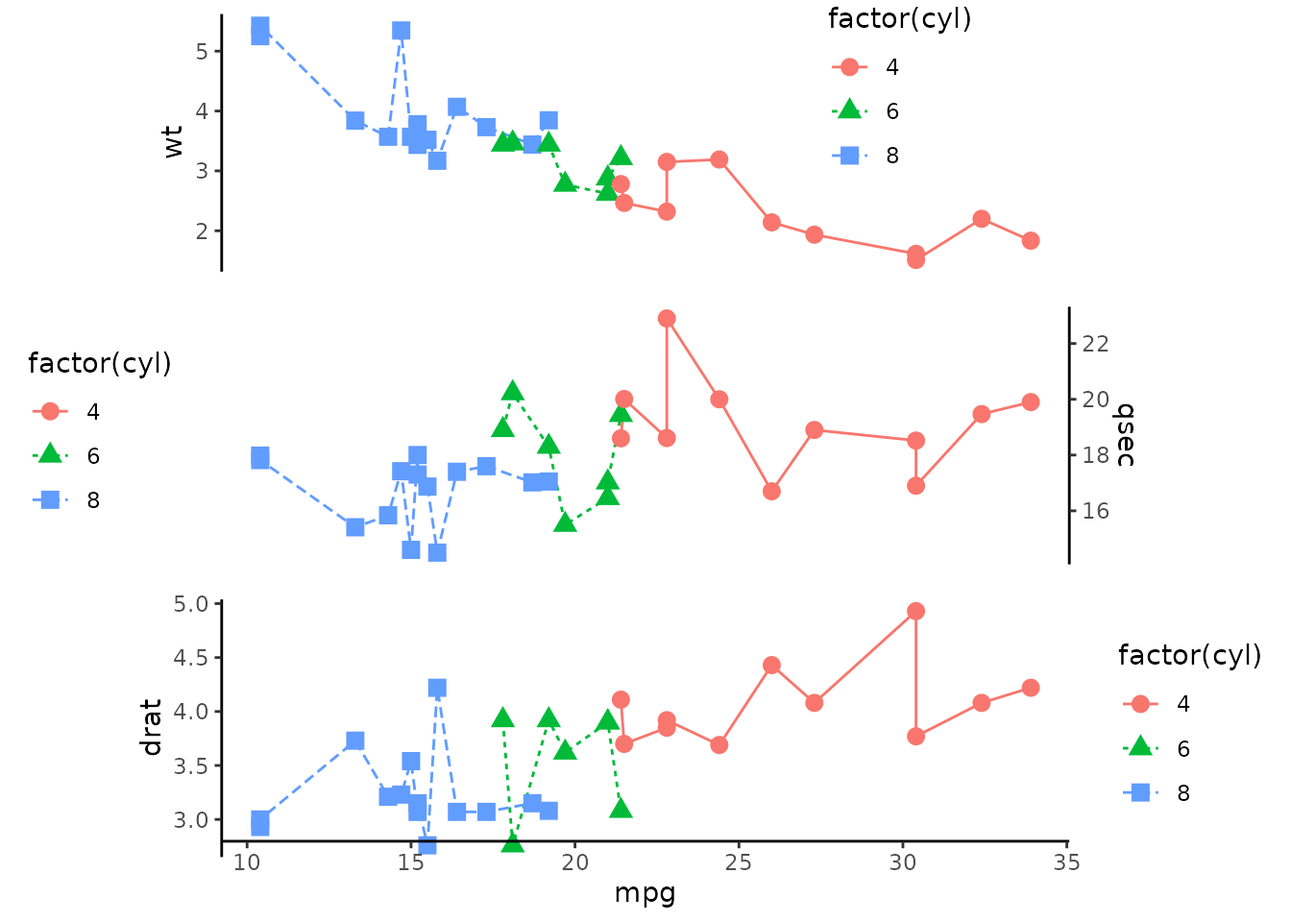
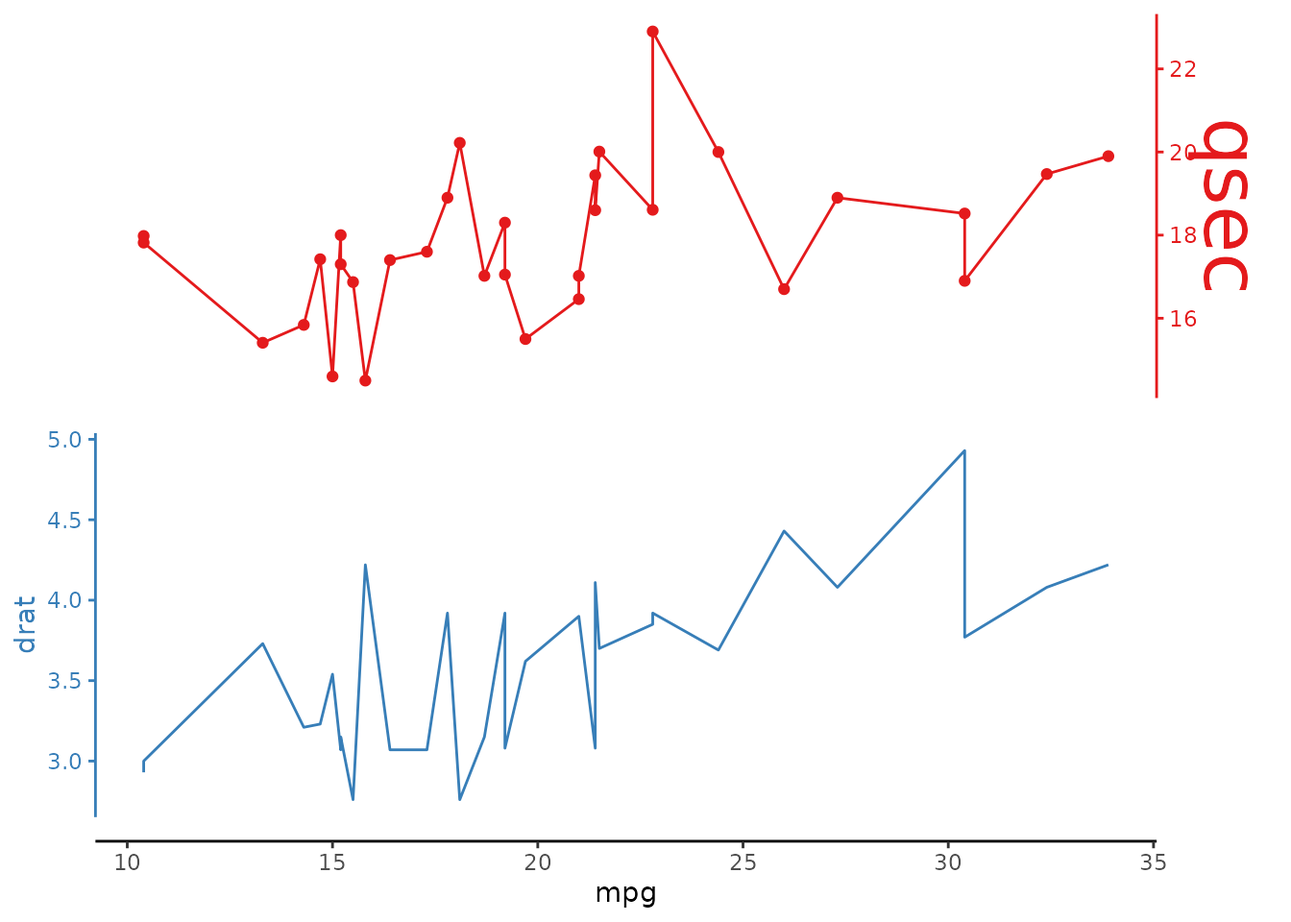
Deploying to gh-pages from @ KopfLab/ggstackplot@f16d5d4f6564ef14e25bf655b6eff627ebc04d66 🚀

diff --git a/articles/features.html b/articles/features.html
@@ -26,7 +26,7 @@
     
     <a class="navbar-brand me-2" href="../index.html">ggstackplot</a>
 
-    <small class="nav-text text-muted me-auto" data-bs-toggle="tooltip" data-bs-placement="bottom" title="Released version">0.2.6</small>
+    <small class="nav-text text-muted me-auto" data-bs-toggle="tooltip" data-bs-placement="bottom" title="Released version">0.2.7</small>
 
     
     <button class="navbar-toggler" type="button" data-bs-toggle="collapse" data-bs-target="#navbar" aria-controls="navbar" aria-expanded="false" aria-label="Toggle navigation">
@@ -126,7 +126,8 @@
 <h4 id="horizontal-stack">horizontal stack<a class="anchor" aria-label="anchor" href="#horizontal-stack"></a>
 </h4>
 <div class="sourceCode" id="cb6"><pre class="downlit sourceCode r">
-<code class="sourceCode R"><span><span class="co"># all examples shown in this document work the same way for a horizontal stack simplfy by switching out the x and y assignments</span></span>
+<code class="sourceCode R"><span><span class="co"># all examples shown in this document work the same way for a horizontal</span></span>
+<span><span class="co"># stack simplfy by switching out the x and y assignments</span></span>
 <span><span class="va">mtcars</span> <span class="op">|&gt;</span> </span>
 <span>  <span class="fu"><a href="../reference/ggstackplot.html">ggstackplot</a></span><span class="op">(</span></span>
 <span>    y <span class="op">=</span> <span class="va">mpg</span>, x <span class="op">=</span> <span class="fu"><a href="https://rdrr.io/r/base/c.html" class="external-link">c</a></span><span class="op">(</span><span class="va">wt</span>, <span class="va">qsec</span>, <span class="va">drat</span><span class="op">)</span></span>
@@ -161,14 +162,6 @@
 </h3>
 <div class="sourceCode" id="cb9"><pre class="downlit sourceCode r">
 <code class="sourceCode R"><span><span class="kw"><a href="https://rdrr.io/r/base/library.html" class="external-link">library</a></span><span class="op">(</span><span class="va"><a href="https://dplyr.tidyverse.org" class="external-link">dplyr</a></span><span class="op">)</span></span>
-<span><span class="co">#&gt; </span></span>
-<span><span class="co">#&gt; Attaching package: 'dplyr'</span></span>
-<span><span class="co">#&gt; The following objects are masked from 'package:stats':</span></span>
-<span><span class="co">#&gt; </span></span>
-<span><span class="co">#&gt;     filter, lag</span></span>
-<span><span class="co">#&gt; The following objects are masked from 'package:base':</span></span>
-<span><span class="co">#&gt; </span></span>
-<span><span class="co">#&gt;     intersect, setdiff, setequal, union</span></span>
 <span></span>
 <span><span class="co"># default (NAs are removed so lines are not interrupted)</span></span>
 <span><span class="va">mtcars</span> <span class="op">|&gt;</span> </span>
@@ -501,47 +494,119 @@ can modify it more from there on). A few examples below:</p>
 <span>      <span class="fu"><a href="https://ggplot2.tidyverse.org/reference/aes.html" class="external-link">aes</a></span><span class="op">(</span>color <span class="op">=</span> <span class="fu"><a href="https://rdrr.io/r/base/factor.html" class="external-link">factor</a></span><span class="op">(</span><span class="va">cyl</span><span class="op">)</span>, linetype <span class="op">=</span> <span class="fu"><a href="https://rdrr.io/r/base/factor.html" class="external-link">factor</a></span><span class="op">(</span><span class="va">cyl</span><span class="op">)</span>, shape <span class="op">=</span> <span class="fu"><a href="https://rdrr.io/r/base/factor.html" class="external-link">factor</a></span><span class="op">(</span><span class="va">cyl</span><span class="op">)</span><span class="op">)</span> <span class="op">+</span></span>
 <span>      <span class="fu"><a href="https://ggplot2.tidyverse.org/reference/geom_path.html" class="external-link">geom_line</a></span><span class="op">(</span><span class="op">)</span> <span class="op">+</span></span>
 <span>      <span class="fu"><a href="https://ggplot2.tidyverse.org/reference/geom_point.html" class="external-link">geom_point</a></span><span class="op">(</span>size <span class="op">=</span> <span class="fl">3</span><span class="op">)</span> <span class="op">+</span></span>
-<span>      <span class="fu"><a href="https://ggplot2.tidyverse.org/reference/ggtheme.html" class="external-link">theme_bw</a></span><span class="op">(</span><span class="op">)</span> <span class="op">+</span></span>
 <span>      <span class="fu"><a href="../reference/theme_stackplot.html">theme_stackplot</a></span><span class="op">(</span><span class="op">)</span> </span>
 <span>  <span class="op">)</span></span></code></pre></div>
 <p><img src="features_files/figure-html/unnamed-chunk-18-1.png" width="672"></p>
 </div>
 </div>
 <div class="section level2">
-<h2 id="advanced-features">Advanced features<a class="anchor" aria-label="anchor" href="#advanced-features"></a>
+<h2 id="the-add-argument">The <code>add</code> argument<a class="anchor" aria-label="anchor" href="#the-add-argument"></a>
 </h2>
+<p>For even more specific plot refinements, the <code>add</code>
+argument provides an easy way to add ggplot components to specific
+panels in the stack plot. A few examples below:</p>
+<div class="section level3">
+<h3 id="custom-geoms">custom geoms<a class="anchor" aria-label="anchor" href="#custom-geoms"></a>
+</h3>
 <div class="sourceCode" id="cb32"><pre class="downlit sourceCode r">
-<code class="sourceCode R"><span><span class="co"># TODO: add example of custom prepare_stackplot, then modify, then assemble_stackpllot</span></span></code></pre></div>
+<code class="sourceCode R"><span><span class="co"># similar to the example `custom geom data`, the `add` argument can also</span></span>
+<span><span class="co"># be used to add specific geoms only to specific panels</span></span>
+<span><span class="va">mtcars</span> <span class="op">|&gt;</span></span>
+<span>  <span class="fu"><a href="../reference/ggstackplot.html">ggstackplot</a></span><span class="op">(</span></span>
+<span>    x <span class="op">=</span> <span class="va">mpg</span>, y <span class="op">=</span> <span class="fu"><a href="https://rdrr.io/r/base/c.html" class="external-link">c</a></span><span class="op">(</span><span class="va">qsec</span>, <span class="va">drat</span><span class="op">)</span>,</span>
+<span>    color <span class="op">=</span> <span class="fu"><a href="https://rdrr.io/r/base/c.html" class="external-link">c</a></span><span class="op">(</span><span class="st">"#E41A1C"</span>, <span class="st">"#377EB8"</span><span class="op">)</span>,</span>
+<span>    template <span class="op">=</span> <span class="fu"><a href="https://ggplot2.tidyverse.org/reference/ggplot.html" class="external-link">ggplot</a></span><span class="op">(</span><span class="op">)</span> <span class="op">+</span> <span class="fu"><a href="../reference/theme_stackplot.html">theme_stackplot</a></span><span class="op">(</span><span class="op">)</span>,</span>
+<span>    add <span class="op">=</span> <span class="fu"><a href="https://rdrr.io/r/base/list.html" class="external-link">list</a></span><span class="op">(</span></span>
+<span>      <span class="co"># panel by name</span></span>
+<span>      qsec <span class="op">=</span> <span class="fu"><a href="https://ggplot2.tidyverse.org/reference/geom_path.html" class="external-link">geom_line</a></span><span class="op">(</span><span class="op">)</span>, </span>
+<span>      drat <span class="op">=</span> <span class="fu"><a href="https://ggplot2.tidyverse.org/reference/geom_tile.html" class="external-link">geom_rect</a></span><span class="op">(</span></span>
+<span>        xmin <span class="op">=</span> <span class="fl">20</span>, xmax <span class="op">=</span> <span class="fl">25</span>, ymin <span class="op">=</span> <span class="fl">3.2</span>, ymax <span class="op">=</span> <span class="fl">4.2</span>, fill <span class="op">=</span> <span class="st">"gray90"</span><span class="op">)</span> <span class="op">+</span> </span>
+<span>        <span class="fu"><a href="https://ggplot2.tidyverse.org/reference/geom_point.html" class="external-link">geom_point</a></span><span class="op">(</span><span class="op">)</span></span>
+<span>    <span class="op">)</span></span>
+<span>  <span class="op">)</span></span></code></pre></div>
+<p><img src="features_files/figure-html/unnamed-chunk-19-1.png" width="672"></p>
 </div>
-<div class="section level2">
-<h2 id="legend-mods-example">legend mods example<a class="anchor" aria-label="anchor" href="#legend-mods-example"></a>
-</h2>
+<div class="section level3">
+<h3 id="custom-themes">custom themes<a class="anchor" aria-label="anchor" href="#custom-themes"></a>
+</h3>
 <div class="sourceCode" id="cb33"><pre class="downlit sourceCode r">
-<code class="sourceCode R"><span><span class="kw"><a href="https://rdrr.io/r/base/library.html" class="external-link">library</a></span><span class="op">(</span><span class="va"><a href="https://ggplot2.tidyverse.org" class="external-link">ggplot2</a></span><span class="op">)</span></span>
-<span><span class="kw"><a href="https://rdrr.io/r/base/library.html" class="external-link">library</a></span><span class="op">(</span><span class="va">ggstackplot</span><span class="op">)</span></span>
-<span></span>
-<span><span class="co"># prep plot</span></span>
-<span><span class="va">stackplot</span> <span class="op">&lt;-</span> </span>
-<span>  <span class="va">mtcars</span> <span class="op">|&gt;</span></span>
-<span>  <span class="fu"><a href="../reference/ggstackplot.html">prepare_stackplot</a></span><span class="op">(</span></span>
-<span>    x <span class="op">=</span> <span class="va">mpg</span>,  y <span class="op">=</span> <span class="fu"><a href="https://rdrr.io/r/base/c.html" class="external-link">c</a></span><span class="op">(</span><span class="va">wt</span>, <span class="va">qsec</span>, <span class="va">drat</span><span class="op">)</span>,</span>
-<span>    template <span class="op">=</span> </span>
-<span>      <span class="fu"><a href="https://ggplot2.tidyverse.org/reference/ggplot.html" class="external-link">ggplot</a></span><span class="op">(</span><span class="op">)</span> <span class="op">+</span></span>
-<span>      <span class="fu"><a href="https://ggplot2.tidyverse.org/reference/aes.html" class="external-link">aes</a></span><span class="op">(</span>color <span class="op">=</span> <span class="fu"><a href="https://rdrr.io/r/base/factor.html" class="external-link">factor</a></span><span class="op">(</span><span class="va">cyl</span><span class="op">)</span>, linetype <span class="op">=</span> <span class="fu"><a href="https://rdrr.io/r/base/factor.html" class="external-link">factor</a></span><span class="op">(</span><span class="va">cyl</span><span class="op">)</span>, shape <span class="op">=</span> <span class="fu"><a href="https://rdrr.io/r/base/factor.html" class="external-link">factor</a></span><span class="op">(</span><span class="va">cyl</span><span class="op">)</span><span class="op">)</span> <span class="op">+</span></span>
-<span>      <span class="fu"><a href="https://ggplot2.tidyverse.org/reference/geom_path.html" class="external-link">geom_line</a></span><span class="op">(</span><span class="op">)</span> <span class="op">+</span></span>
-<span>      <span class="fu"><a href="https://ggplot2.tidyverse.org/reference/geom_point.html" class="external-link">geom_point</a></span><span class="op">(</span>size <span class="op">=</span> <span class="fl">3</span><span class="op">)</span> <span class="op">+</span></span>
-<span>      <span class="fu"><a href="https://ggplot2.tidyverse.org/reference/ggtheme.html" class="external-link">theme_bw</a></span><span class="op">(</span><span class="op">)</span> <span class="op">+</span></span>
-<span>      <span class="fu"><a href="../reference/theme_stackplot.html">theme_stackplot</a></span><span class="op">(</span><span class="op">)</span> </span>
-<span>  <span class="op">)</span></span>
-<span></span>
-<span><span class="co"># modify themes (or plots) manually</span></span>
-<span><span class="va">stackplot</span><span class="op">$</span><span class="va">theme</span><span class="op">[[</span><span class="fl">1</span><span class="op">]</span><span class="op">]</span> <span class="op">&lt;-</span> <span class="va">stackplot</span><span class="op">$</span><span class="va">theme</span><span class="op">[[</span><span class="fl">1</span><span class="op">]</span><span class="op">]</span> <span class="op">+</span> <span class="fu"><a href="https://ggplot2.tidyverse.org/reference/theme.html" class="external-link">theme</a></span><span class="op">(</span>legend.position <span class="op">=</span> <span class="fu"><a href="https://rdrr.io/r/base/c.html" class="external-link">c</a></span><span class="op">(</span><span class="fl">0.8</span>, <span class="fl">0.7</span><span class="op">)</span><span class="op">)</span></span>
-<span><span class="va">stackplot</span><span class="op">$</span><span class="va">theme</span><span class="op">[[</span><span class="fl">2</span><span class="op">]</span><span class="op">]</span> <span class="op">&lt;-</span> <span class="va">stackplot</span><span class="op">$</span><span class="va">theme</span><span class="op">[[</span><span class="fl">2</span><span class="op">]</span><span class="op">]</span> <span class="op">+</span> <span class="fu"><a href="https://ggplot2.tidyverse.org/reference/theme.html" class="external-link">theme</a></span><span class="op">(</span>legend.position <span class="op">=</span> <span class="st">"left"</span><span class="op">)</span></span>
-<span></span>
-<span><span class="co"># assemble</span></span>
-<span><span class="va">stackplot</span> <span class="op">|&gt;</span></span>
-<span>  <span class="fu"><a href="../reference/ggstackplot.html">assemble_stackplot</a></span><span class="op">(</span><span class="op">)</span></span></code></pre></div>
+<code class="sourceCode R"><span><span class="co"># likewise custom themes can be added to individual panels with `add`</span></span>
+<span><span class="va">mtcars</span> <span class="op">|&gt;</span></span>
+<span>  <span class="fu"><a href="../reference/ggstackplot.html">ggstackplot</a></span><span class="op">(</span></span>
+<span>    x <span class="op">=</span> <span class="va">mpg</span>, y <span class="op">=</span> <span class="fu"><a href="https://rdrr.io/r/base/c.html" class="external-link">c</a></span><span class="op">(</span><span class="va">qsec</span>, <span class="va">drat</span><span class="op">)</span>,</span>
+<span>    color <span class="op">=</span> <span class="fu"><a href="https://rdrr.io/r/base/c.html" class="external-link">c</a></span><span class="op">(</span><span class="st">"#E41A1C"</span>, <span class="st">"#377EB8"</span><span class="op">)</span>,</span>
+<span>    template <span class="op">=</span> <span class="fu"><a href="https://ggplot2.tidyverse.org/reference/ggplot.html" class="external-link">ggplot</a></span><span class="op">(</span><span class="op">)</span> <span class="op">+</span> <span class="fu"><a href="https://ggplot2.tidyverse.org/reference/geom_path.html" class="external-link">geom_line</a></span><span class="op">(</span><span class="op">)</span> <span class="op">+</span> <span class="fu"><a href="../reference/theme_stackplot.html">theme_stackplot</a></span><span class="op">(</span><span class="op">)</span>,</span>
+<span>    add <span class="op">=</span> <span class="fu"><a href="https://rdrr.io/r/base/list.html" class="external-link">list</a></span><span class="op">(</span></span>
+<span>      <span class="co"># panel by index</span></span>
+<span>      <span class="fu"><a href="https://ggplot2.tidyverse.org/reference/geom_point.html" class="external-link">geom_point</a></span><span class="op">(</span><span class="op">)</span> <span class="op">+</span> <span class="fu"><a href="https://ggplot2.tidyverse.org/reference/theme.html" class="external-link">theme</a></span><span class="op">(</span>axis.title.y <span class="op">=</span> <span class="fu"><a href="https://ggplot2.tidyverse.org/reference/element.html" class="external-link">element_text</a></span><span class="op">(</span>size <span class="op">=</span> <span class="fl">30</span><span class="op">)</span><span class="op">)</span></span>
+<span>    <span class="op">)</span></span>
+<span>  <span class="op">)</span></span></code></pre></div>
 <p><img src="features_files/figure-html/unnamed-chunk-20-1.png" width="672"></p>
+</div>
+<div class="section level3">
+<h3 id="custom-scales">custom scales<a class="anchor" aria-label="anchor" href="#custom-scales"></a>
+</h3>
+<div class="sourceCode" id="cb34"><pre class="downlit sourceCode r">
+<code class="sourceCode R"><span><span class="co"># particularly useful is also the possibility to modify individual scales</span></span>
+<span><span class="va">mtcars</span> <span class="op">|&gt;</span></span>
+<span>  <span class="fu"><a href="../reference/ggstackplot.html">ggstackplot</a></span><span class="op">(</span></span>
+<span>    x <span class="op">=</span> <span class="va">mpg</span>, y <span class="op">=</span> <span class="fu"><a href="https://rdrr.io/r/base/c.html" class="external-link">c</a></span><span class="op">(</span><span class="va">qsec</span>, <span class="va">drat</span><span class="op">)</span>,</span>
+<span>    color <span class="op">=</span> <span class="fu"><a href="https://rdrr.io/r/base/c.html" class="external-link">c</a></span><span class="op">(</span><span class="st">"#E41A1C"</span>, <span class="st">"#377EB8"</span><span class="op">)</span>,</span>
+<span>    template <span class="op">=</span> <span class="fu"><a href="https://ggplot2.tidyverse.org/reference/ggplot.html" class="external-link">ggplot</a></span><span class="op">(</span><span class="op">)</span> <span class="op">+</span> <span class="fu"><a href="https://ggplot2.tidyverse.org/reference/geom_path.html" class="external-link">geom_line</a></span><span class="op">(</span><span class="op">)</span> <span class="op">+</span> <span class="fu"><a href="../reference/theme_stackplot.html">theme_stackplot</a></span><span class="op">(</span><span class="op">)</span>,</span>
+<span>    add <span class="op">=</span> <span class="fu"><a href="https://rdrr.io/r/base/list.html" class="external-link">list</a></span><span class="op">(</span></span>
+<span>      <span class="co"># panel by index</span></span>
+<span>      <span class="cn">NULL</span>,</span>
+<span>      <span class="fu"><a href="https://ggplot2.tidyverse.org/reference/scale_continuous.html" class="external-link">scale_y_continuous</a></span><span class="op">(</span><span class="st">"$$ drat"</span>, labels <span class="op">=</span> <span class="fu">scales</span><span class="fu">::</span><span class="fu"><a href="https://scales.r-lib.org/reference/label_dollar.html" class="external-link">label_dollar</a></span><span class="op">(</span><span class="op">)</span><span class="op">)</span> <span class="op">+</span> </span>
+<span>        <span class="fu"><a href="https://ggplot2.tidyverse.org/reference/theme.html" class="external-link">theme</a></span><span class="op">(</span>axis.title.y <span class="op">=</span> <span class="fu"><a href="https://ggplot2.tidyverse.org/reference/element.html" class="external-link">element_text</a></span><span class="op">(</span>size <span class="op">=</span> <span class="fl">30</span><span class="op">)</span><span class="op">)</span> </span>
+<span>    <span class="op">)</span></span>
+<span>  <span class="op">)</span></span></code></pre></div>
+<p><img src="features_files/figure-html/unnamed-chunk-21-1.png" width="672"></p>
+</div>
+<div class="section level3">
+<h3 id="legend-positioning">legend positioning<a class="anchor" aria-label="anchor" href="#legend-positioning"></a>
+</h3>
+<div class="sourceCode" id="cb35"><pre class="downlit sourceCode r">
+<code class="sourceCode R"><span><span class="co"># another example of theme modification is the use of the `add` argument</span></span>
+<span><span class="co"># to specify legend positioning</span></span>
+<span><span class="va">mtcars</span> <span class="op">|&gt;</span></span>
+<span>  <span class="fu"><a href="../reference/ggstackplot.html">ggstackplot</a></span><span class="op">(</span></span>
+<span>    x <span class="op">=</span> <span class="va">mpg</span>,  y <span class="op">=</span> <span class="fu"><a href="https://rdrr.io/r/base/c.html" class="external-link">c</a></span><span class="op">(</span><span class="va">wt</span>, <span class="va">qsec</span>, <span class="va">drat</span><span class="op">)</span>,</span>
+<span>    color <span class="op">=</span> <span class="fu"><a href="https://rdrr.io/r/base/c.html" class="external-link">c</a></span><span class="op">(</span><span class="st">"#E41A1C"</span>, <span class="st">"#377EB8"</span>, <span class="st">"#4DAF4A"</span><span class="op">)</span>,</span>
+<span>    template <span class="op">=</span> </span>
+<span>      <span class="fu"><a href="https://ggplot2.tidyverse.org/reference/ggplot.html" class="external-link">ggplot</a></span><span class="op">(</span><span class="op">)</span> <span class="op">+</span> <span class="fu"><a href="https://ggplot2.tidyverse.org/reference/aes.html" class="external-link">aes</a></span><span class="op">(</span>linetype <span class="op">=</span> <span class="fu"><a href="https://rdrr.io/r/base/factor.html" class="external-link">factor</a></span><span class="op">(</span><span class="va">vs</span><span class="op">)</span><span class="op">)</span> <span class="op">+</span></span>
+<span>      <span class="fu"><a href="https://ggplot2.tidyverse.org/reference/geom_path.html" class="external-link">geom_line</a></span><span class="op">(</span><span class="op">)</span> <span class="op">+</span> <span class="fu"><a href="../reference/theme_stackplot.html">theme_stackplot</a></span><span class="op">(</span><span class="op">)</span>,</span>
+<span>    <span class="co"># switch legend position for middle plot</span></span>
+<span>    add <span class="op">=</span> <span class="fu"><a href="https://rdrr.io/r/base/list.html" class="external-link">list</a></span><span class="op">(</span>qsec <span class="op">=</span> <span class="fu"><a href="https://ggplot2.tidyverse.org/reference/theme.html" class="external-link">theme</a></span><span class="op">(</span>legend.position <span class="op">=</span> <span class="st">"left"</span><span class="op">)</span><span class="op">)</span></span>
+<span>  <span class="op">)</span></span></code></pre></div>
+<p><img src="features_files/figure-html/unnamed-chunk-22-1.png" width="672"></p>
+<div class="sourceCode" id="cb36"><pre class="downlit sourceCode r">
+<code class="sourceCode R"><span></span>
+<span><span class="va">mtcars</span> <span class="op">|&gt;</span></span>
+<span>  <span class="fu"><a href="../reference/ggstackplot.html">ggstackplot</a></span><span class="op">(</span></span>
+<span>    x <span class="op">=</span> <span class="va">mpg</span>,  y <span class="op">=</span> <span class="fu"><a href="https://rdrr.io/r/base/c.html" class="external-link">c</a></span><span class="op">(</span><span class="va">wt</span>, <span class="va">qsec</span>, <span class="va">drat</span><span class="op">)</span>,</span>
+<span>    color <span class="op">=</span> <span class="fu"><a href="https://rdrr.io/r/base/c.html" class="external-link">c</a></span><span class="op">(</span><span class="st">"#E41A1C"</span>, <span class="st">"#377EB8"</span>, <span class="st">"#4DAF4A"</span><span class="op">)</span>,</span>
+<span>    template <span class="op">=</span> </span>
+<span>      <span class="fu"><a href="https://ggplot2.tidyverse.org/reference/ggplot.html" class="external-link">ggplot</a></span><span class="op">(</span><span class="op">)</span> <span class="op">+</span> <span class="fu"><a href="https://ggplot2.tidyverse.org/reference/aes.html" class="external-link">aes</a></span><span class="op">(</span>linetype <span class="op">=</span> <span class="fu"><a href="https://rdrr.io/r/base/factor.html" class="external-link">factor</a></span><span class="op">(</span><span class="va">vs</span><span class="op">)</span><span class="op">)</span> <span class="op">+</span></span>
+<span>      <span class="fu"><a href="https://ggplot2.tidyverse.org/reference/geom_path.html" class="external-link">geom_line</a></span><span class="op">(</span><span class="op">)</span> <span class="op">+</span> <span class="fu"><a href="../reference/theme_stackplot.html">theme_stackplot</a></span><span class="op">(</span><span class="op">)</span> <span class="op">+</span></span>
+<span>      <span class="fu"><a href="https://ggplot2.tidyverse.org/reference/theme.html" class="external-link">theme</a></span><span class="op">(</span>legend.position <span class="op">=</span> <span class="st">"none"</span><span class="op">)</span>,</span>
+<span>    <span class="co"># re-include the middle panel legend on the plot</span></span>
+<span>    <span class="co"># with some additional styling</span></span>
+<span>    add <span class="op">=</span> <span class="fu"><a href="https://rdrr.io/r/base/list.html" class="external-link">list</a></span><span class="op">(</span></span>
+<span>      qsec <span class="op">=</span> </span>
+<span>        <span class="fu"><a href="https://ggplot2.tidyverse.org/reference/theme.html" class="external-link">theme</a></span><span class="op">(</span></span>
+<span>          legend.position <span class="op">=</span> <span class="fu"><a href="https://rdrr.io/r/base/c.html" class="external-link">c</a></span><span class="op">(</span><span class="fl">0.2</span>, <span class="fl">0.9</span><span class="op">)</span>,</span>
+<span>          legend.title <span class="op">=</span> <span class="fu"><a href="https://ggplot2.tidyverse.org/reference/element.html" class="external-link">element_text</a></span><span class="op">(</span>size <span class="op">=</span> <span class="fl">20</span><span class="op">)</span>,</span>
+<span>          legend.text <span class="op">=</span> <span class="fu"><a href="https://ggplot2.tidyverse.org/reference/element.html" class="external-link">element_text</a></span><span class="op">(</span>size <span class="op">=</span> <span class="fl">16</span><span class="op">)</span>,</span>
+<span>          legend.background <span class="op">=</span> <span class="fu"><a href="https://ggplot2.tidyverse.org/reference/element.html" class="external-link">element_rect</a></span><span class="op">(</span></span>
+<span>            color <span class="op">=</span> <span class="st">"black"</span>, fill <span class="op">=</span> <span class="st">"gray90"</span>, linewidth <span class="op">=</span> <span class="fl">0.5</span><span class="op">)</span>,</span>
+<span>          legend.key <span class="op">=</span> <span class="fu"><a href="https://ggplot2.tidyverse.org/reference/element.html" class="external-link">element_blank</a></span><span class="op">(</span><span class="op">)</span>,</span>
+<span>          legend.direction <span class="op">=</span> <span class="st">"horizontal"</span></span>
+<span>        <span class="op">)</span> <span class="op">+</span></span>
+<span>        <span class="fu"><a href="https://ggplot2.tidyverse.org/reference/labs.html" class="external-link">labs</a></span><span class="op">(</span>linetype <span class="op">=</span> <span class="st">"VS"</span><span class="op">)</span></span>
+<span>    <span class="op">)</span></span>
+<span>  <span class="op">)</span></span></code></pre></div>
+<p><img src="features_files/figure-html/unnamed-chunk-22-2.png" width="672"></p>
+</div>
 </div>
   </main><aside class="col-md-3"><nav id="toc"><h2>On this page</h2>
     </nav></aside>

diff --git a/reference/ggstackplot.html b/reference/ggstackplot.html
@@ -10,7 +10,7 @@
     
     <a class="navbar-brand me-2" href="../index.html">ggstackplot</a>
 
-    <small class="nav-text text-muted me-auto" data-bs-toggle="tooltip" data-bs-placement="bottom" title="Released version">0.2.6</small>
+    <small class="nav-text text-muted me-auto" data-bs-toggle="tooltip" data-bs-placement="bottom" title="Released version">0.2.7</small>
 
     
     <button class="navbar-toggler" type="button" data-bs-toggle="collapse" data-bs-target="#navbar" aria-controls="navbar" aria-expanded="false" aria-label="Toggle navigation">
@@ -67,6 +67,7 @@
 <span>  simplify_shared_axis <span class="op">=</span> <span class="cn">TRUE</span>,</span>
 <span>  shared_axis_size <span class="op">=</span> <span class="fl">0.2</span>,</span>
 <span>  template <span class="op">=</span> <span class="fu">ggplot</span><span class="op">(</span><span class="op">)</span> <span class="op">+</span> <span class="fu">geom_line</span><span class="op">(</span><span class="op">)</span> <span class="op">+</span> <span class="fu">geom_point</span><span class="op">(</span><span class="op">)</span> <span class="op">+</span> <span class="fu"><a href="theme_stackplot.html">theme_stackplot</a></span><span class="op">(</span><span class="op">)</span>,</span>
+<span>  add <span class="op">=</span> <span class="fu"><a href="https://rdrr.io/r/base/list.html" class="external-link">list</a></span><span class="op">(</span><span class="op">)</span>,</span>
 <span>  debug <span class="op">=</span> <span class="cn">FALSE</span></span>
 <span><span class="op">)</span></span>
 <span></span>
@@ -80,6 +81,7 @@
 <span>  alternate_axes <span class="op">=</span> <span class="cn">TRUE</span>,</span>
 <span>  switch_axes <span class="op">=</span> <span class="cn">FALSE</span>,</span>
 <span>  template <span class="op">=</span> <span class="fu">ggplot</span><span class="op">(</span><span class="op">)</span> <span class="op">+</span> <span class="fu">geom_line</span><span class="op">(</span><span class="op">)</span> <span class="op">+</span> <span class="fu">geom_point</span><span class="op">(</span><span class="op">)</span> <span class="op">+</span> <span class="fu"><a href="theme_stackplot.html">theme_stackplot</a></span><span class="op">(</span><span class="op">)</span>,</span>
+<span>  add <span class="op">=</span> <span class="fu"><a href="https://rdrr.io/r/base/list.html" class="external-link">list</a></span><span class="op">(</span><span class="op">)</span>,</span>
 <span>  debug <span class="op">=</span> <span class="cn">FALSE</span></span>
 <span><span class="op">)</span></span>
 <span></span>
@@ -140,6 +142,10 @@
 
 <dt>template</dt>
 <dd><p>a template plot (ggplot object) to use for the stacked plots</p></dd>
+
+
+<dt>add</dt>
+<dd><p>a list of ggplot component calls to add to specific panel plots, either by panel variable name (named list) or index (unnamed list)</p></dd>
 
 
 <dt>debug</dt>

diff --git a/authors.html b/authors.html
@@ -10,7 +10,7 @@
     
     <a class="navbar-brand me-2" href="index.html">ggstackplot</a>
 
-    <small class="nav-text text-muted me-auto" data-bs-toggle="tooltip" data-bs-placement="bottom" title="Released version">0.2.6</small>
+    <small class="nav-text text-muted me-auto" data-bs-toggle="tooltip" data-bs-placement="bottom" title="Released version">0.2.7</small>
 
     
     <button class="navbar-toggler" type="button" data-bs-toggle="collapse" data-bs-target="#navbar" aria-controls="navbar" aria-expanded="false" aria-label="Toggle navigation">
@@ -73,13 +73,13 @@
 
       <p>Kopf S, Caro T, McFarlin J, Raberg J (2023).
 <em>ggstackplot: Create overlapping stacked ggplots</em>.
-R package version 0.2.6. 
+R package version 0.2.7. 
 </p>
       <pre>@Manual{,
   title = {ggstackplot: Create overlapping stacked ggplots},
   author = {Sebastian Kopf and Tristan Caro and Jamie McFarlin and Jon Raberg},
   year = {2023},
-  note = {R package version 0.2.6},
+  note = {R package version 0.2.7},
 }</pre>
     </div>
   </main><aside class="col-md-3"><nav id="toc"><h2>On this page</h2>

diff --git a/reference/tidyeval.html b/reference/tidyeval.html
@@ -160,7 +160,7 @@ because it throws an error if the input is not a name as expected.
     
     <a class="navbar-brand me-2" href="../index.html">ggstackplot</a>
 
-    <small class="nav-text text-muted me-auto" data-bs-toggle="tooltip" data-bs-placement="bottom" title="Released version">0.2.6</small>
+    <small class="nav-text text-muted me-auto" data-bs-toggle="tooltip" data-bs-placement="bottom" title="Released version">0.2.7</small>
 
     
     <button class="navbar-toggler" type="button" data-bs-toggle="collapse" data-bs-target="#navbar" aria-controls="navbar" aria-expanded="false" aria-label="Toggle navigation">

diff --git a/404.html b/404.html
@@ -24,7 +24,7 @@
     
     <a class="navbar-brand me-2" href="https://ggstackplot.kopflab.org/index.html">ggstackplot</a>
 
-    <small class="nav-text text-muted me-auto" data-bs-toggle="tooltip" data-bs-placement="bottom" title="Released version">0.2.6</small>
+    <small class="nav-text text-muted me-auto" data-bs-toggle="tooltip" data-bs-placement="bottom" title="Released version">0.2.7</small>
 
     
     <button class="navbar-toggler" type="button" data-bs-toggle="collapse" data-bs-target="#navbar" aria-controls="navbar" aria-expanded="false" aria-label="Toggle navigation">

diff --git a/articles/examples.html b/articles/examples.html
@@ -26,7 +26,7 @@
     
     <a class="navbar-brand me-2" href="../index.html">ggstackplot</a>
 
-    <small class="nav-text text-muted me-auto" data-bs-toggle="tooltip" data-bs-placement="bottom" title="Released version">0.2.6</small>
+    <small class="nav-text text-muted me-auto" data-bs-toggle="tooltip" data-bs-placement="bottom" title="Released version">0.2.7</small>
 
     
     <button class="navbar-toggler" type="button" data-bs-toggle="collapse" data-bs-target="#navbar" aria-controls="navbar" aria-expanded="false" aria-label="Toggle navigation">

diff --git a/articles/index.html b/articles/index.html
@@ -10,7 +10,7 @@
     
     <a class="navbar-brand me-2" href="../index.html">ggstackplot</a>
 
-    <small class="nav-text text-muted me-auto" data-bs-toggle="tooltip" data-bs-placement="bottom" title="Released version">0.2.6</small>
+    <small class="nav-text text-muted me-auto" data-bs-toggle="tooltip" data-bs-placement="bottom" title="Released version">0.2.7</small>
 
     
     <button class="navbar-toggler" type="button" data-bs-toggle="collapse" data-bs-target="#navbar" aria-controls="navbar" aria-expanded="false" aria-label="Toggle navigation">

diff --git a/news/index.html b/news/index.html
@@ -10,7 +10,7 @@
     
     <a class="navbar-brand me-2" href="../index.html">ggstackplot</a>
 
-    <small class="nav-text text-muted me-auto" data-bs-toggle="tooltip" data-bs-placement="bottom" title="Released version">0.2.6</small>
+    <small class="nav-text text-muted me-auto" data-bs-toggle="tooltip" data-bs-placement="bottom" title="Released version">0.2.7</small>
 
     
     <button class="navbar-toggler" type="button" data-bs-toggle="collapse" data-bs-target="#navbar" aria-controls="navbar" aria-expanded="false" aria-label="Toggle navigation">

diff --git a/reference/ggstackplot-package.html b/reference/ggstackplot-package.html
@@ -10,7 +10,7 @@
     
     <a class="navbar-brand me-2" href="../index.html">ggstackplot</a>
 
-    <small class="nav-text text-muted me-auto" data-bs-toggle="tooltip" data-bs-placement="bottom" title="Released version">0.2.6</small>
+    <small class="nav-text text-muted me-auto" data-bs-toggle="tooltip" data-bs-placement="bottom" title="Released version">0.2.7</small>
 
     
     <button class="navbar-toggler" type="button" data-bs-toggle="collapse" data-bs-target="#navbar" aria-controls="navbar" aria-expanded="false" aria-label="Toggle navigation">

diff --git a/reference/index.html b/reference/index.html
@@ -10,7 +10,7 @@
     
     <a class="navbar-brand me-2" href="../index.html">ggstackplot</a>
 
-    <small class="nav-text text-muted me-auto" data-bs-toggle="tooltip" data-bs-placement="bottom" title="Released version">0.2.6</small>
+    <small class="nav-text text-muted me-auto" data-bs-toggle="tooltip" data-bs-placement="bottom" title="Released version">0.2.7</small>
 
     
     <button class="navbar-toggler" type="button" data-bs-toggle="collapse" data-bs-target="#navbar" aria-controls="navbar" aria-expanded="false" aria-label="Toggle navigation">

diff --git a/reference/theme_stackplot.html b/reference/theme_stackplot.html
@@ -10,7 +10,7 @@
     
     <a class="navbar-brand me-2" href="../index.html">ggstackplot</a>
 
-    <small class="nav-text text-muted me-auto" data-bs-toggle="tooltip" data-bs-placement="bottom" title="Released version">0.2.6</small>
+    <small class="nav-text text-muted me-auto" data-bs-toggle="tooltip" data-bs-placement="bottom" title="Released version">0.2.7</small>
 
     
     <button class="navbar-toggler" type="button" data-bs-toggle="collapse" data-bs-target="#navbar" aria-controls="navbar" aria-expanded="false" aria-label="Toggle navigation">

diff --git a/CODE_OF_CONDUCT.html b/CODE_OF_CONDUCT.html
@@ -10,7 +10,7 @@
     
     <a class="navbar-brand me-2" href="index.html">ggstackplot</a>
 
-    <small class="nav-text text-muted me-auto" data-bs-toggle="tooltip" data-bs-placement="bottom" title="Released version">0.2.6</small>
+    <small class="nav-text text-muted me-auto" data-bs-toggle="tooltip" data-bs-placement="bottom" title="Released version">0.2.7</small>
 
     
     <button class="navbar-toggler" type="button" data-bs-toggle="collapse" data-bs-target="#navbar" aria-controls="navbar" aria-expanded="false" aria-label="Toggle navigation">
